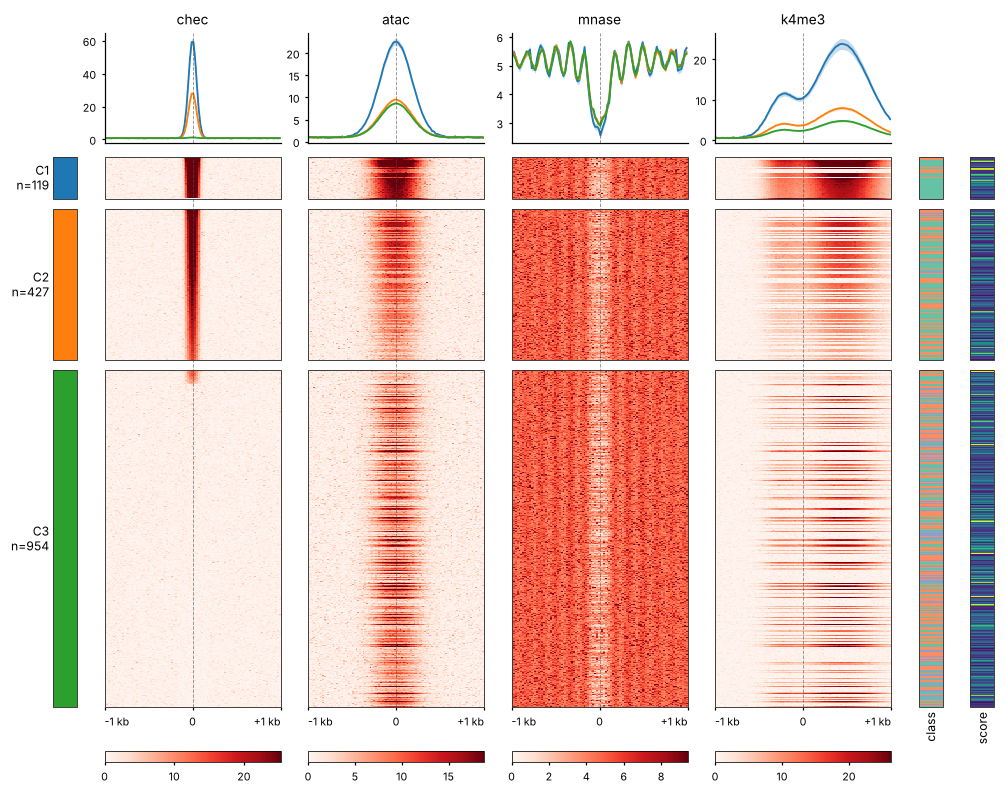
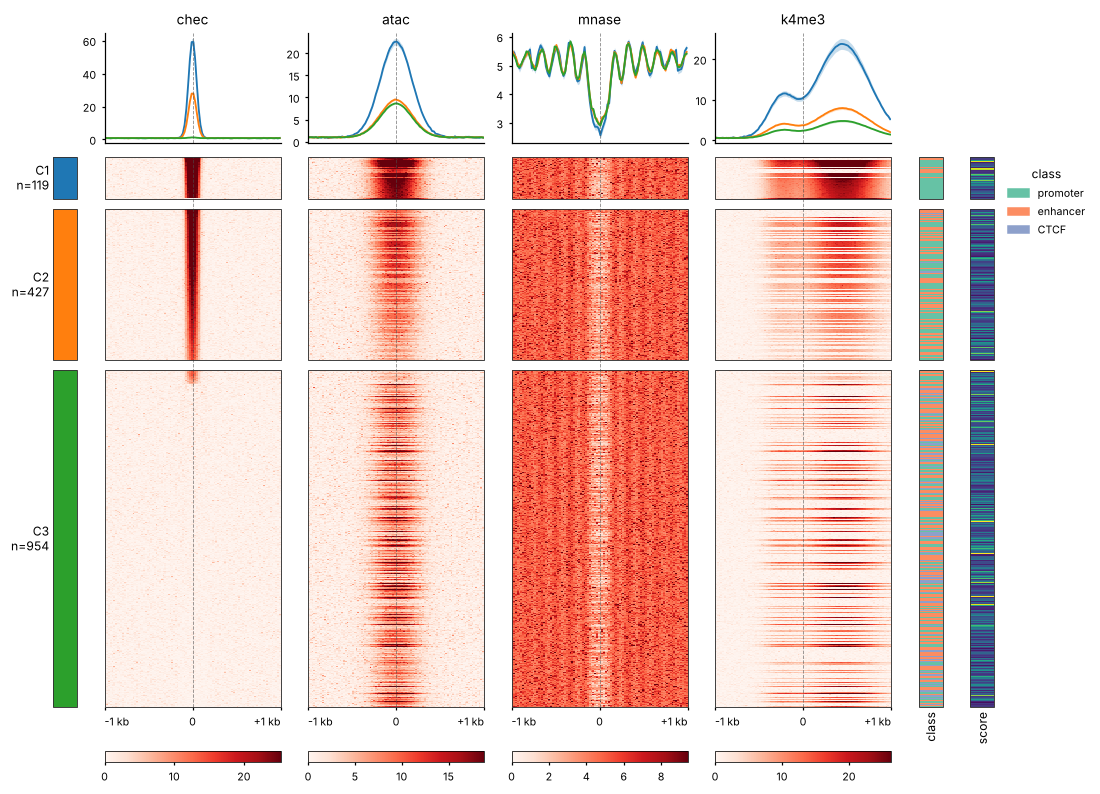
Docs, skill, CI and changelog for 0.3.0; fix clipped annotation legends
- clip legends off so they render outside the axes; regenerate figures
- document auto-centred differential scale, annotation changes, dtype option
- CI: strict docs build on pull requests, pymisha and pyBigWig required on Linux
- add py.typed, 3.13 classifier, CHANGELOG

Claude-Session: https://claude.ai/code/session_01B4cmqVG9o9EHF1hGttBcU5

diff --git a/tests/test_draw.py b/tests/test_draw.py
@@ -206,7 +206,11 @@ def test_plot_adds_legends_for_categorical_annotations():
     assert len(legends) == 1  # categorical strip only
     assert legends[0].get_title().get_text() == "class"
     assert {t.get_text() for t in legends[0].get_texts()} == {"a", "b"}
-    assert fig.get_size_inches()[0] > eh.plot(m)[0].get_size_inches()[0] - 0.1
+    # legends sit right of the strips and are not clipped away by the axes
+    assert not legends[0].get_clip_on()
+    fig.canvas.draw()
+    assert legends[0].get_window_extent().x0 > last.get_window_extent().x1
+    assert legends[0].get_window_extent().x1 <= fig.bbox.x1 + 1  # inside the figure margin
 
     fig2, grid2 = eh.plot(m, annotations={"class": _labels(m)}, annotation_legend=False)
     assert not [a for a in grid2.heatmap[-1].artists if a.__class__.__name__ == "Legend"]

diff --git a/src/enriched_heatmap/draw.py b/src/enriched_heatmap/draw.py
@@ -340,6 +340,7 @@ def legends(ax, items: Sequence[tuple[str | None, Mapping]], x: float = 1.05, y:
         leg = Legend(ax, handles, [str(k) for k in colors], title=title, frameon=False,
                      fontsize=7, title_fontsize=8, loc="upper left", bbox_to_anchor=(x, y))
         ax.add_artist(leg)
+        leg.set_clip_on(False)  # add_artist clips to the axes, and these sit outside
         y -= 0.028 * (len(handles) + (2.2 if title else 0.6)) + 0.03
 
 

diff --git a/CHANGELOG.md b/CHANGELOG.md
@@ -1,0 +1,61 @@
+# Changelog
+
+## 0.3.0
+
+Fixes from a full review of the package. Behaviour changes are marked **(breaking)**.
+
+### Fixed
+
+- `arrange(groups=...)` crashed on boolean group labels and could misorder integer
+  ones; group ranks no longer go through `Series.loc`.
+- `NormalizedMatrix.smooth` filled NaN bins from their neighbours, so off-chromosome
+  bins were drawn as data. NaN bins now stay NaN. Unknown boundary modes raise, and the
+  NumPy fallback (no scipy) now agrees with scipy for every mode.
+- `annotation` drew only the first column of a multi-column DataFrame when it was
+  categorical, raised on mixed numeric and categorical columns, and ignored a mistyped
+  `kind`. Every column now picks categorical or numeric on its own, and `kind` is
+  validated. An empty categorical strip no longer raises.
+- `eh.bins` / `eh.matrices` layout in `DataFrame.attrs` made `DataFrame.merge` raise;
+  it now survives `merge`, `concat`, `copy` and `deepcopy`.
+- `eh.bins` silently dropped regions whose start or end was NaN; it now raises.
+- `matrices` always marked matrices as strand-oriented; the flag follows the `strand`
+  argument of `bins`.
+- `NormalizedMatrix == NormalizedMatrix` raised; matrices now compare by identity.
+- `example_peaks(n=...)` failed with an obscure NumPy error for large `n`.
+- `example_values(bins)` silently generated signal for the default peaks when the bins
+  came from another table; it now raises and asks for `peaks=`.
+- Zero-row heatmaps and annotations no longer warn about identical axis limits.
+- The `legend` of categorical annotation strips in `plot` is not clipped by the axes.
+
+### Changed
+
+- **(breaking)** `NormalizedMatrix` validates that the column count equals
+  `upstream/bin_size + target_bins + downstream/bin_size`, and that the flanks are
+  multiples of `bin_size`. A mismatch used to give silently wrong tick positions.
+- **(breaking)** `subtract` and `log2_ratio` raise on matrices with different mode,
+  flanks, bin size or `target_bins` instead of combining them.
+- **(breaking)** The default `colors` of `annotation` is `"tab10"` (was `"Set2"`), the
+  same as `profile`, so a group strip and the profile lines agree.
+- **(breaking)** The modules `enriched_heatmap.bins` and `enriched_heatmap.matrix` are
+  now private (`_bins`, `_matrix`): the names belong to the functions `eh.bins` and
+  `eh.matrix`. Import from `enriched_heatmap`.
+- **(breaking)** `compute_target_raster_rows` is removed (it was unused).
+- `heatmap` and `limits` centre differential matrices (from `subtract` and
+  `log2_ratio`) on 0 with `RdBu_r` unless `center=` or `cmap=` says otherwise.
+- `annotation` returns, for several numeric columns, the image of the last one (all
+  share one norm); with any categorical column it returns `{column: result}`.
+- `hclust` raises a `ResourceWarning` above 20,000 regions (distance matrix memory).
+
+### Added
+
+- `plot(..., annotation_legend=True, annotation_colors="Set2")`: categorical
+  annotation strips get a legend in the right margin and their own palette.
+- `eh.legends(ax, [(title, colours), ...])` stacks legends beside an axes.
+- `matrices(..., dtype=)` and `matrix(..., dtype=)`; `np.float64` keeps raw counts
+  above 2**24 exact.
+- `py.typed`, a docs build on every pull request, and required pymisha and pyBigWig
+  tests on Linux CI.
+
+## 0.2.0
+
+Table-based API: `bins`, `matrices`, axes-level drawing functions, `arrange`.

diff --git a/src/enriched_heatmap/_skills/data/references/figures.md b/src/enriched_heatmap/_skills/data/references/figures.md
@@ -5,7 +5,7 @@ missing from the data are drawn blank/NaN.
 
 ## eh.heatmap(mat, ax, rows, ...)
 
-`cmap` (default Reds, RdBu_r if `center`), `vmin`, `vmax`, `q=0.99` (quantile
+`cmap` (default Reds, RdBu_r if `center`; matrices from `log2_ratio`/`subtract` get `center=0` automatically), `vmin`, `vmax`, `q=0.99` (quantile
 for vmax), `center` (TwoSlopeNorm, symmetric), `norm`, `na_color`,
 `max_rows="auto"` (average down to ~1 row/pixel at 300 dpi; `None` = all
 rows), `agg` (`mean`, `max` for sparse narrow peaks, `absmax` for signed
@@ -20,10 +20,13 @@ default tab10), `color` (single line), `ylim`, `legend`, `title`.
 
 ## eh.annotation(series_or_df, ax, rows, ...)
 
-Categorical -> colour strip (`colors`, default Set2), returns
+Categorical -> colour strip (`colors`, default tab10 like `eh.profile`), returns
 `{category: colour}`; numeric -> colour strip (`cmap`, `vmin`, `vmax`, `q`,
-`center`), returns the image; `kind="bar"` -> horizontal bars. A DataFrame
-draws one strip per column. `legend=True` for categories.
+`center`), returns the image; `kind="bar"` -> horizontal bars (unknown `kind`
+raises). A DataFrame draws one strip per column, each categorical or numeric on
+its own (numeric ones share a scale); with mixed columns it returns
+`{column: result}`. `legend=True` adds one legend per categorical column;
+`eh.legends(ax, [(title, colours), ...])` stacks legends yourself.
 
 Helpers: `eh.group_labels(ax, rows, counts=True)`, `eh.legend(ax, colours)`,
 `eh.colorbar(image, cax, label)`, `eh.limits(mats, q, center)` -> shared
@@ -41,7 +44,9 @@ One column per matrix (dict keys are titles), group strip on the left when
 `rows` has groups, annotation strips on the right. Per-column options as a
 value or dict keyed by name: `cmap`, `center`, `vmax`. `shared=[["WT",
 "KO"]]` for one colour scale; `band`, `share_profile_y`, `colors`, `agg`,
-`width`, `height`. Returns `(fig, grid)`; edit axes afterwards as usual.
+`width`, `height`, `annotation_colors` (default Set2, so strips differ from the
+groups), `annotation_legend` (default True: legends for categorical strips in
+the right margin). Returns `(fig, grid)`; edit axes afterwards as usual.
 
 ## Saving
 

diff --git a/docs/tutorials/figures.md b/docs/tutorials/figures.md
@@ -88,21 +88,24 @@ eh.legend(grid.profile[1], eh.palette(rows.labels, "Set2"), bbox_to_anchor=(1.05
 ## Shared scales and differential matrices
 
 Pass the same limits to heatmaps that should be compared; `eh.limits` computes them
-over several matrices. A ratio gets a diverging scale with `center=`:
+over several matrices. A differential matrix (from `log2_ratio` or `subtract`) gets a
+diverging scale centred on 0 without being asked:
 
 ```python
 diff = mats["chec_ko"].log2_ratio(mats["chec"], pseudocount=2.0)
 rows = eh.arrange(mats["chec"], groups=eh.kmeans([mats["chec"], diff], k=3))
 
 fig, grid = eh.plot({"WT": mats["chec"], "KO": mats["chec_ko"], "log2(KO/WT)": diff},
-                    rows=rows, shared=[["WT", "KO"]], center={"log2(KO/WT)": 0},
+                    rows=rows, shared=[["WT", "KO"]],
                     agg="absmax", share_profile_y=False)
 ```
 
 ![Differential](../images/figures-differential.png)
 
 - `shared=[["WT", "KO"]]` puts both on one colour scale; the ratio keeps its own.
-- `center=0` makes the scale symmetric around 0 with `RdBu_r`.
+- Differential matrices are drawn with `RdBu_r`, symmetric around 0. Pass `center=` (a
+  value, or a dict by column name in `eh.plot`) for a ratio you computed yourself or a
+  different midpoint, or `cmap=` to change the colours.
 - `agg="absmax"` keeps the strongest change, of either sign, when rows are averaged
   for display.
 

diff --git a/src/enriched_heatmap/_skills/data/references/data-path.md b/src/enriched_heatmap/_skills/data/references/data-path.md
@@ -51,14 +51,20 @@ m = eh.matrix(vals, b, value="atac")     # one column; value optional if only on
 
 - Value columns = every column except chrom/start/end/intervalID/region/bin.
 - Rows follow the region order given to `eh.bins`; missing bins are NaN.
-- "lost its layout" ValueError: `b` went through merge/concat. Rebuild it.
+- "lost its layout" ValueError: `b` was rebuilt from scratch or written to disk
+  (CSV/parquet drop `DataFrame.attrs`). Rebuild it with `eh.bins`.
+- `eh.matrices(..., dtype=np.float64)` for raw counts above 16.7 million; the default
+  float32 is exact only up to 2**24.
 
 ## NormalizedMatrix
 
 Fields: `values` (n_regions, n_bins), `region_index`, `mode`
 (`"reference_point"`/`"scale_regions"`), `upstream`, `downstream`,
 `bin_size`, `target_bins`, `name`. Build one directly from an array with
-`eh.NormalizedMatrix(values, region_index=ids, upstream=, downstream=, bin_size=)`.
+`eh.NormalizedMatrix(values, region_index=ids, upstream=, downstream=, bin_size=)`;
+the column count must equal `upstream/bin_size + downstream/bin_size` (plus
+`target_bins`), and `subtract`/`log2_ratio` need identical geometry. Matrices
+compare by identity (`==` is `is`).
 
 Selection: `m.loc[ids]`, `m.iloc[pos]`, `m.reindex(ids)`, `m.dropna_regions()`.
 Transforms (all return new matrices): `log1p`, `log2p(pc)`, `zscore(axis=1)`,

diff --git a/docs/tutorials/data.md b/docs/tutorials/data.md
@@ -131,11 +131,12 @@ peak0001  1.624  0.297  1.604  0.269
 | `.log1p()`, `.log2p(pseudocount)` | log transforms |
 | `.zscore(axis=1)` | per-region (or per-bin with `axis=0`) z-score |
 | `.clip_quantile(lo, hi)` | clip to global quantiles |
-| `.smooth(sigma)` | Gaussian smoothing along bins, NaN-aware |
+| `.smooth(sigma)` | Gaussian smoothing along bins; NaN bins stay NaN |
 | `.log2_ratio(other)`, `.subtract(other)` | differential matrices, aligned by region |
 | `.reindex(ids)`, `.dropna_regions()` | change the region set |
 
-A differential matrix goes into `eh.heatmap(..., center=0)` for a diverging scale:
+A differential matrix is drawn on a diverging scale centred on 0 by `eh.heatmap`
+(pass `center=` or `cmap=` to override):
 
 ```python
 diff = mats["chec_ko"].log2_ratio(mats["chec"], pseudocount=1.0)

diff --git a/src/enriched_heatmap/_skills/data/SKILL.md b/src/enriched_heatmap/_skills/data/SKILL.md
@@ -39,7 +39,7 @@ Run `python scripts/check_regions.py --help`.
 - Strand: `"+"`/`"-"` and `1`/`-1` both work. Matrices come out 5' -> 3';
   never flip them afterwards.
 - Pass the `eh.bins` table unchanged (or boolean-filtered) to the extraction
-  and to `eh.matrices`; its layout lives in `DataFrame.attrs`, which
-  `merge`/`concat` drop.
+  and to `eh.matrices`; its layout lives in `DataFrame.attrs` and survives
+  `merge`, `concat`, `copy` and sorting, but not `to_csv`/`to_parquet`.
 - Every drawing function takes the same `rows`; build it once with
   `eh.arrange(by, groups=...)`.

diff --git a/docs/tutorials/quickstart.md b/docs/tutorials/quickstart.md
@@ -135,6 +135,9 @@ fig, grid = eh.plot(mats, rows=rows, band="sem",
 - Within each cluster rows are sorted by ChEC; profiles show one line per cluster.
 - `peaks["class"]` and `peaks["score"]` are matched to rows by peak name, so their
   order in the table does not matter.
+- Categorical annotation strips get a legend in the right margin
+  (`annotation_legend=False` turns it off) and use their own palette
+  (`annotation_colors=`), so a strip is not mistaken for the groups.
 - `grid` holds every axes (`grid.heatmap`, `grid.profile`, `grid.colorbar`) for
   further edits.
 
